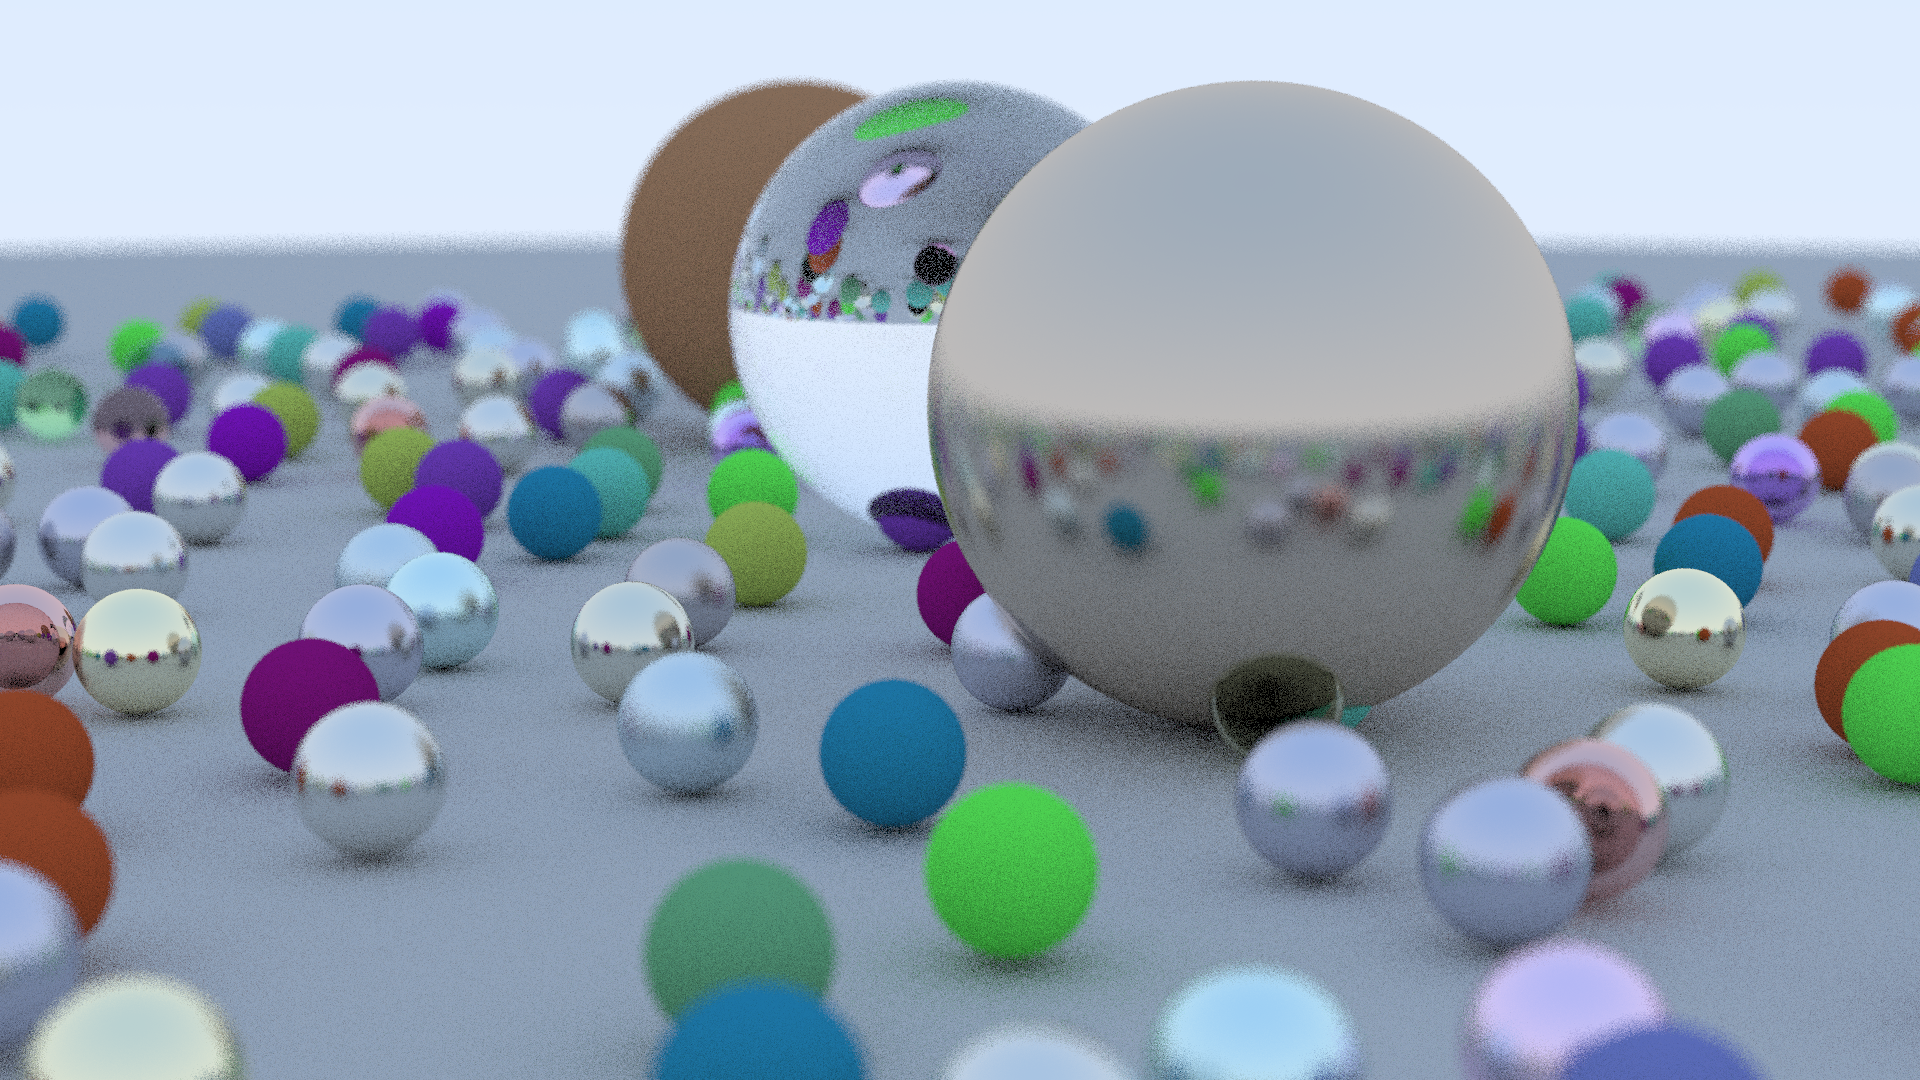
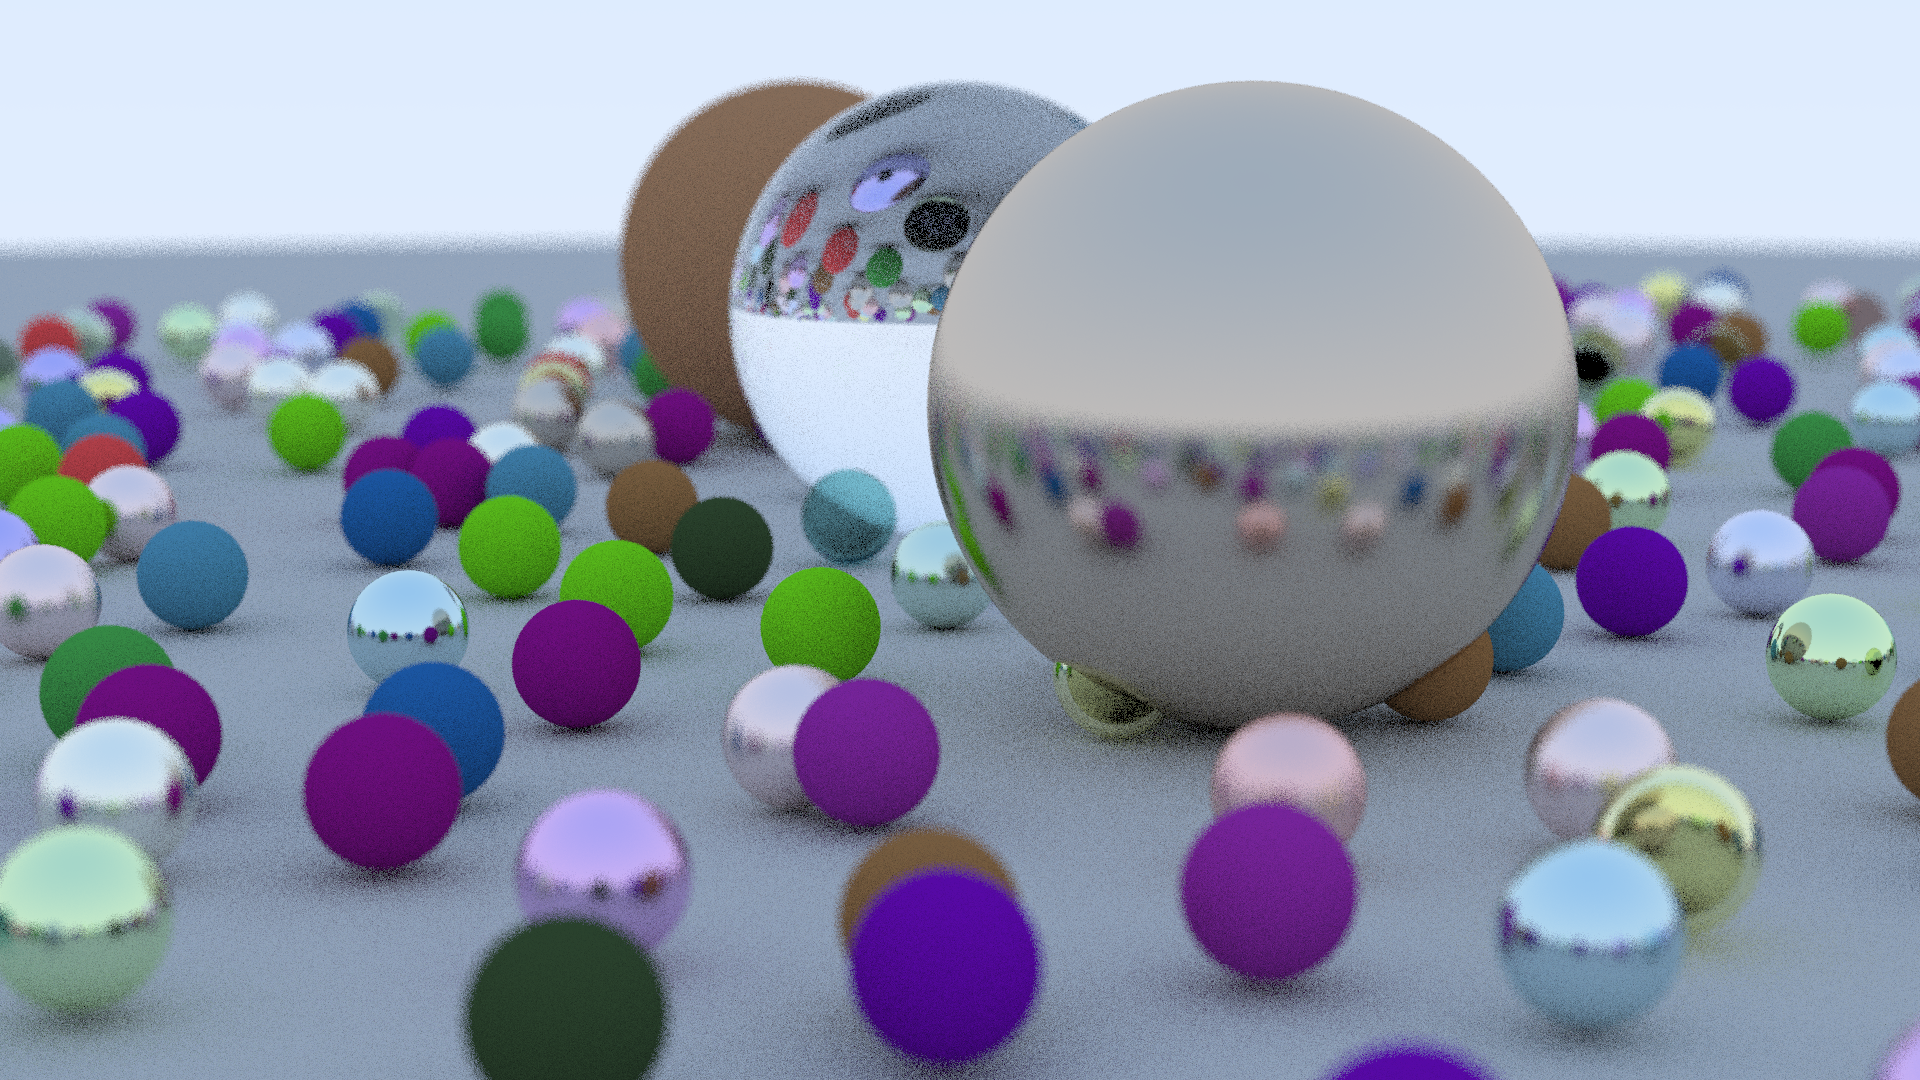
added Quad Hittable object
fixed camera testing code

diff --git a/raytracer/src/hittable/quad.rs b/raytracer/src/hittable/quad.rs
@@ -1,0 +1,169 @@
+use std::{ops::Range, sync::Arc};
+
+use crate::{accel::cpu::aabb::AABB, material::Material, math::vec3::Vec3, ray::Ray, Float};
+
+use super::{HitRecord, Hittable};
+
+pub struct Quad {
+    corner: Vec3,
+    u: Vec3,
+    v: Vec3,
+    bbox: AABB,
+    material: Arc<Box<dyn Material>>,
+    n: Vec3,
+    w: Vec3,
+    d: Float,
+}
+
+impl Quad {
+    pub fn new(corner: Vec3, u: Vec3, v: Vec3, material: Arc<Box<dyn Material>>) -> Self {
+        let bbox = AABB::merge(
+            AABB::new(corner, corner + u + v),
+            AABB::new(corner + u, corner + v)
+        );
+        let n = u.cross(&v);
+        let w = n / n.dot(&n);
+        let d = n.dot(&corner);
+        Self { corner, u, v, bbox, material, n, w, d } 
+    }
+}
+
+impl Hittable for Quad {
+    fn hit(&self, ray: &Ray, t_range: Range<Float>) -> Option<HitRecord> {
+        let dir_norm = ray.direction().dot(&self.n);
+
+        let t = (self.d - ray.origin().dot(&self.n)) / dir_norm;
+        if t_range.contains(&t) {
+            let p = ray.at(t) - self.corner;
+            let planar_x = p.cross(&self.v).dot(&self.w);
+            let planar_y = self.u.cross(&p).dot(&self.w);
+            if (0.0..1.0).contains(&planar_x) && (0.0..1.0).contains(&planar_y) {
+                Some(HitRecord::new(
+                    ray,
+                    t,
+                    self.n,
+                    self.material.clone(),
+                ))
+            } else {
+                None
+            }
+        } else {
+            None
+        }
+    }
+
+    fn bounding_box(&self) -> AABB {
+        self.bbox
+    }
+}
+
+#[cfg(test)]
+mod tests {
+    use crate::{camera::Camera, hittable::world::World, material::lambertian::Lambertian, pipeline::{descriptor::{ImageDescriptor, InstanceDescriptor, SamplePointGeneratorDescriptor, SamplerDescriptor}, instance::Instance}};
+
+    use super::*;
+
+    #[test]
+    fn test_quad_hit() {
+        let quad = Quad::new(
+            Vec3::zero(),
+            Vec3::new(1.0, 0.0, 0.0),
+            Vec3::new(0.0, 0.0, 3.0),
+            Arc::new(Box::new(Lambertian::new(Vec3::zero())))
+        );
+
+        let ray = Ray::new(Vec3::new(0.0, 1.0, 0.0), Vec3::new(0.0, -1.0, 0.0));
+        if let Some(hit_rec) = quad.hit(&ray, 0.0..Float::INFINITY) {
+            assert_eq!(hit_rec.t, 1.0);
+            assert_eq!(hit_rec.point, Vec3::new(0.0, 0.0, 0.0));
+            assert_eq!(hit_rec.normal, Vec3::new(0.0, 1.0, 0.0));
+        } else {
+            assert!(false, "Expected hit, but got None");
+        }
+
+        let ray = Ray::new(Vec3::new(0.0, 1.0, 1.0), Vec3::new(0.0, -1.0, -1.0));
+        if let Some(hit_rec) = quad.hit(&ray, 0.0..Float::INFINITY) {
+            assert!((hit_rec.t -2.0_f32.sqrt()) < 1e-6);
+            assert_eq!(hit_rec.point, Vec3::new(0.0, 0.0, 0.0));
+            assert_eq!(hit_rec.normal, Vec3::new(0.0, 1.0, 0.0));
+        } else {
+            assert!(false, "Expected hit, but got None");
+        }
+
+        let ray = Ray::new(Vec3::new(0.0, 1.0, 1.0), Vec3::new(0.0, -1.0, -1.1));
+        assert!(quad.hit(&ray, 0.0..Float::INFINITY).is_none());
+    }
+
+    #[ignore]
+    #[tokio::test(flavor = "multi_thread", worker_threads=4)]
+    async fn test_rendering() {
+        let mut world = World::new();
+
+        world.add_material("red", Box::new(Lambertian::new(Vec3::new(1.0, 0.2, 0.2))));
+        world.add_material("green", Box::new(Lambertian::new(Vec3::new(0.2, 1.0, 0.2))));
+        world.add_material("blue", Box::new(Lambertian::new(Vec3::new(0.2, 0.2, 1.0))));
+        world.add_material("orange", Box::new(Lambertian::new(Vec3::new(1.0, 0.5, 0.0))));
+        world.add_material("teal", Box::new(Lambertian::new(Vec3::new(0.2, 0.8, 0.8))));
+
+        world.add_hittable(Box::new(Quad::new(
+            Vec3::new(-3.0, -2.0, 5.0),
+            Vec3::new(0.0, 0.0, -4.0),
+            Vec3::new(0.0, 4.0, 0.0),
+            world.get_material("red").unwrap()
+        )));
+        world.add_hittable(Box::new(Quad::new(
+            Vec3::new(-2.0, -2.0, 0.0),
+            Vec3::new(4.0, 0.0, 0.0),
+            Vec3::new(0.0, 4.0, 0.0),
+            world.get_material("green").unwrap()
+        )));
+        world.add_hittable(Box::new(Quad::new(
+            Vec3::new(3.0, -2.0, 1.0),
+            Vec3::new(0.0, 0.0, 4.0),
+            Vec3::new(0.0, 4.0, 0.0),
+            world.get_material("blue").unwrap()
+        )));
+        world.add_hittable(Box::new(Quad::new(
+            Vec3::new(-2.0, 3.0, 1.0),
+            Vec3::new(4.0, 0.0, 0.0),
+            Vec3::new(0.0, 0.0, 4.0),
+            world.get_material("orange").unwrap()
+        )));
+        world.add_hittable(Box::new(Quad::new(
+            Vec3::new(-2.0, -3.0, 5.0),
+            Vec3::new(4.0, 0.0, 0.0),
+            Vec3::new(0.0, 0.0, -4.0),
+            world.get_material("teal").unwrap()
+        )));
+
+        let instance = Instance::new(InstanceDescriptor {
+            point_generator_descriptor: SamplePointGeneratorDescriptor {
+                num_threads: 1,
+                buffer_size: 1024,
+                image: ImageDescriptor {
+                    width: 400,
+                    height: 300,
+                    samples_per_pixel: 10,
+                },
+                camera: Camera::new(
+                    1.0,
+                    0.0,
+                    Vec3::new(0.0, 0.0, 9.0),
+                    Vec3::zero(),
+                    Vec3::new(0.0, 1.0, 0.0),
+                    80.0,
+                    400.0 / 300.0
+                ),
+            },
+            sampler_descriptor: SamplerDescriptor {
+                num_threads: 4,
+                in_buffer_size: 1024,
+                feedback_buffer_size: 4096,
+                out_buffer_size: 4096,
+                max_bounces: 10,
+            },
+            progressbar: false,
+        });
+        instance.begin(Arc::new(world)).await.expect("failed to create image").save("output/quad_test.png");
+    }
+}

diff --git a/raytracer/src/camera.rs b/raytracer/src/camera.rs
@@ -24,15 +24,15 @@ impl Camera {
         let viewport_height = 2.0 * focus_distance * (vertical_fov.to_radians() / 2.0).tan();
         let viewport_width = aspect_ratio * viewport_height;
 
-        let w = (look_at - position).normalized();
-        let u = w.cross(&up).normalized();
-        let v = u.cross(&w).normalized();
+        let w = (position - look_at).normalized();
+        let u = up.cross(&w).normalized();
+        let v = w.cross(&u).normalized();
 
         let forward = w * focus_distance;
         let horizontal = u * viewport_width;
         let vertical = v * viewport_height;
         let viewport_upper_left = position - horizontal / 2.0 + vertical / 2.0
-            + forward;
+            - forward;
 
         let defocus_radius = focus_distance * (defocus_angle.to_radians() / 2.0).tan();
         let defocus_disk_u = u * defocus_radius;
@@ -86,35 +86,10 @@ mod test {
         );
 
         assert_eq!(camera.position, position);
-        assert_eq!(camera.viewport_upper_left, Vec3::new(-aspect_ratio, 1.0, 1.0));
-        assert_eq!(camera.forward, Vec3::new(0.0, 0.0, 1.0));
-        assert_eq!(camera.horizontal, Vec3::new(2.0 * aspect_ratio, 0.0, 0.0));
+        assert_eq!(camera.viewport_upper_left, Vec3::new(aspect_ratio, 1.0, 1.0));
+        assert_eq!(camera.forward, Vec3::new(0.0, 0.0, -1.0));
+        assert_eq!(camera.horizontal, Vec3::new(-2.0 * aspect_ratio, 0.0, 0.0));
         assert_eq!(camera.vertical, Vec3::new(0.0, 2.0, 0.0));
-    }
-
-    #[test]
-    fn test_get_ray() {
-        let focal_length = 1.0;
-        let defocus_angle = 10.0;
-        let position = Vec3::new(0.0, 0.0, 0.0);
-        let look_at = Vec3::new(0.0, 0.0, 1.0);
-        let up = Vec3::new(0.0, 1.0, 0.0);
-        let vertical_fov = 90.0;
-        let aspect_ratio = 16.0 / 9.0;
-
-        let camera = Camera::new(
-            focal_length,
-            defocus_angle,
-            position,
-            look_at,
-            up,
-            vertical_fov,
-            aspect_ratio,
-        );
-
-        assert_eq!(camera.get_ray(0.5, 0.5).direction(), camera.forward.normalized());
-        assert_eq!(camera.get_ray(0.0, 0.0).direction(), camera.viewport_upper_left.normalized());
-        assert_eq!(camera.get_ray(1.0, 1.0).direction(), Vec3::new(-camera.viewport_upper_left.x, -camera.viewport_upper_left.y, focal_length).normalized());
     }
 
     #[test]

diff --git a/raytracer/src/pipeline/instance.rs b/raytracer/src/pipeline/instance.rs
@@ -96,12 +96,11 @@ mod tests {
     }
 
     #[ignore]
-    #[tokio::test(flavor = "multi_thread", worker_threads=8)]
-    async fn test_dummy_scene_rendering() {
-        println!("using {} worker threads", tokio::runtime::Handle::current().metrics().num_workers());
+    #[tokio::test(flavor = "multi_thread", worker_threads=4)]
+    async fn test_rendering() {
         let world = dummy_world();
-        let width = 800;
-        let height = 450;
+        let width = 400;
+        let height = 300;
         let instance = Instance::new(InstanceDescriptor {
             point_generator_descriptor: SamplePointGeneratorDescriptor {
                 num_threads: 2,
@@ -109,7 +108,7 @@ mod tests {
                 image: ImageDescriptor {
                     width: width,
                     height: height,
-                    samples_per_pixel: 10,
+                    samples_per_pixel: 3,
                 },
                 camera: Camera::new(
                     3.4,
@@ -122,13 +121,13 @@ mod tests {
                 )
             },
             sampler_descriptor: SamplerDescriptor {
-                num_threads: 8,
+                num_threads: 4,
                 in_buffer_size: 4096,
                 feedback_buffer_size: 2048,
                 out_buffer_size: 10240,
-                max_bounces: 10
+                max_bounces: 10,
             },
-            progressbar: true,
+            progressbar: false,
         });
         let image = instance.begin(world).await.expect("failed to join render thread");
         image.save("output/pipelined_render_test.png");

diff --git a/raytracer/src/accel/cpu/aabb.rs b/raytracer/src/accel/cpu/aabb.rs
@@ -10,8 +10,11 @@ pub struct AABB {
 
 impl AABB {
     pub fn new(a: Vec3, b: Vec3) -> Self {
-        let min = Vec3::new_min(a, b);
-        let max = Vec3::new_max(a, b);
+        const PADDING_AMOUNT: Float = 0.0001;
+        let padding = Vec3::new_diagonal(PADDING_AMOUNT / 2.0);
+
+        let min = Vec3::new_min(a, b) - padding;
+        let max = Vec3::new_max(a, b) + padding;
         Self { min, max }
     }
 

diff --git a/raytracer/src/hittable/sphere.rs b/raytracer/src/hittable/sphere.rs
@@ -19,16 +19,8 @@ impl Sphere {
             center,
             radius,
             bbox,
-            material: material.clone(),
+            material: material,
         }
-    }
-
-    pub fn center(&self) -> Vec3 {
-        self.center
-    }
-
-    pub fn radius(&self) -> Float {
-        self.radius
     }
 }
 

diff --git a/raytracer/src/hittable/mod.rs b/raytracer/src/hittable/mod.rs
@@ -43,3 +43,4 @@ impl HitRecord {
 pub mod list;
 pub mod world;
 pub mod sphere;
+pub mod quad;
